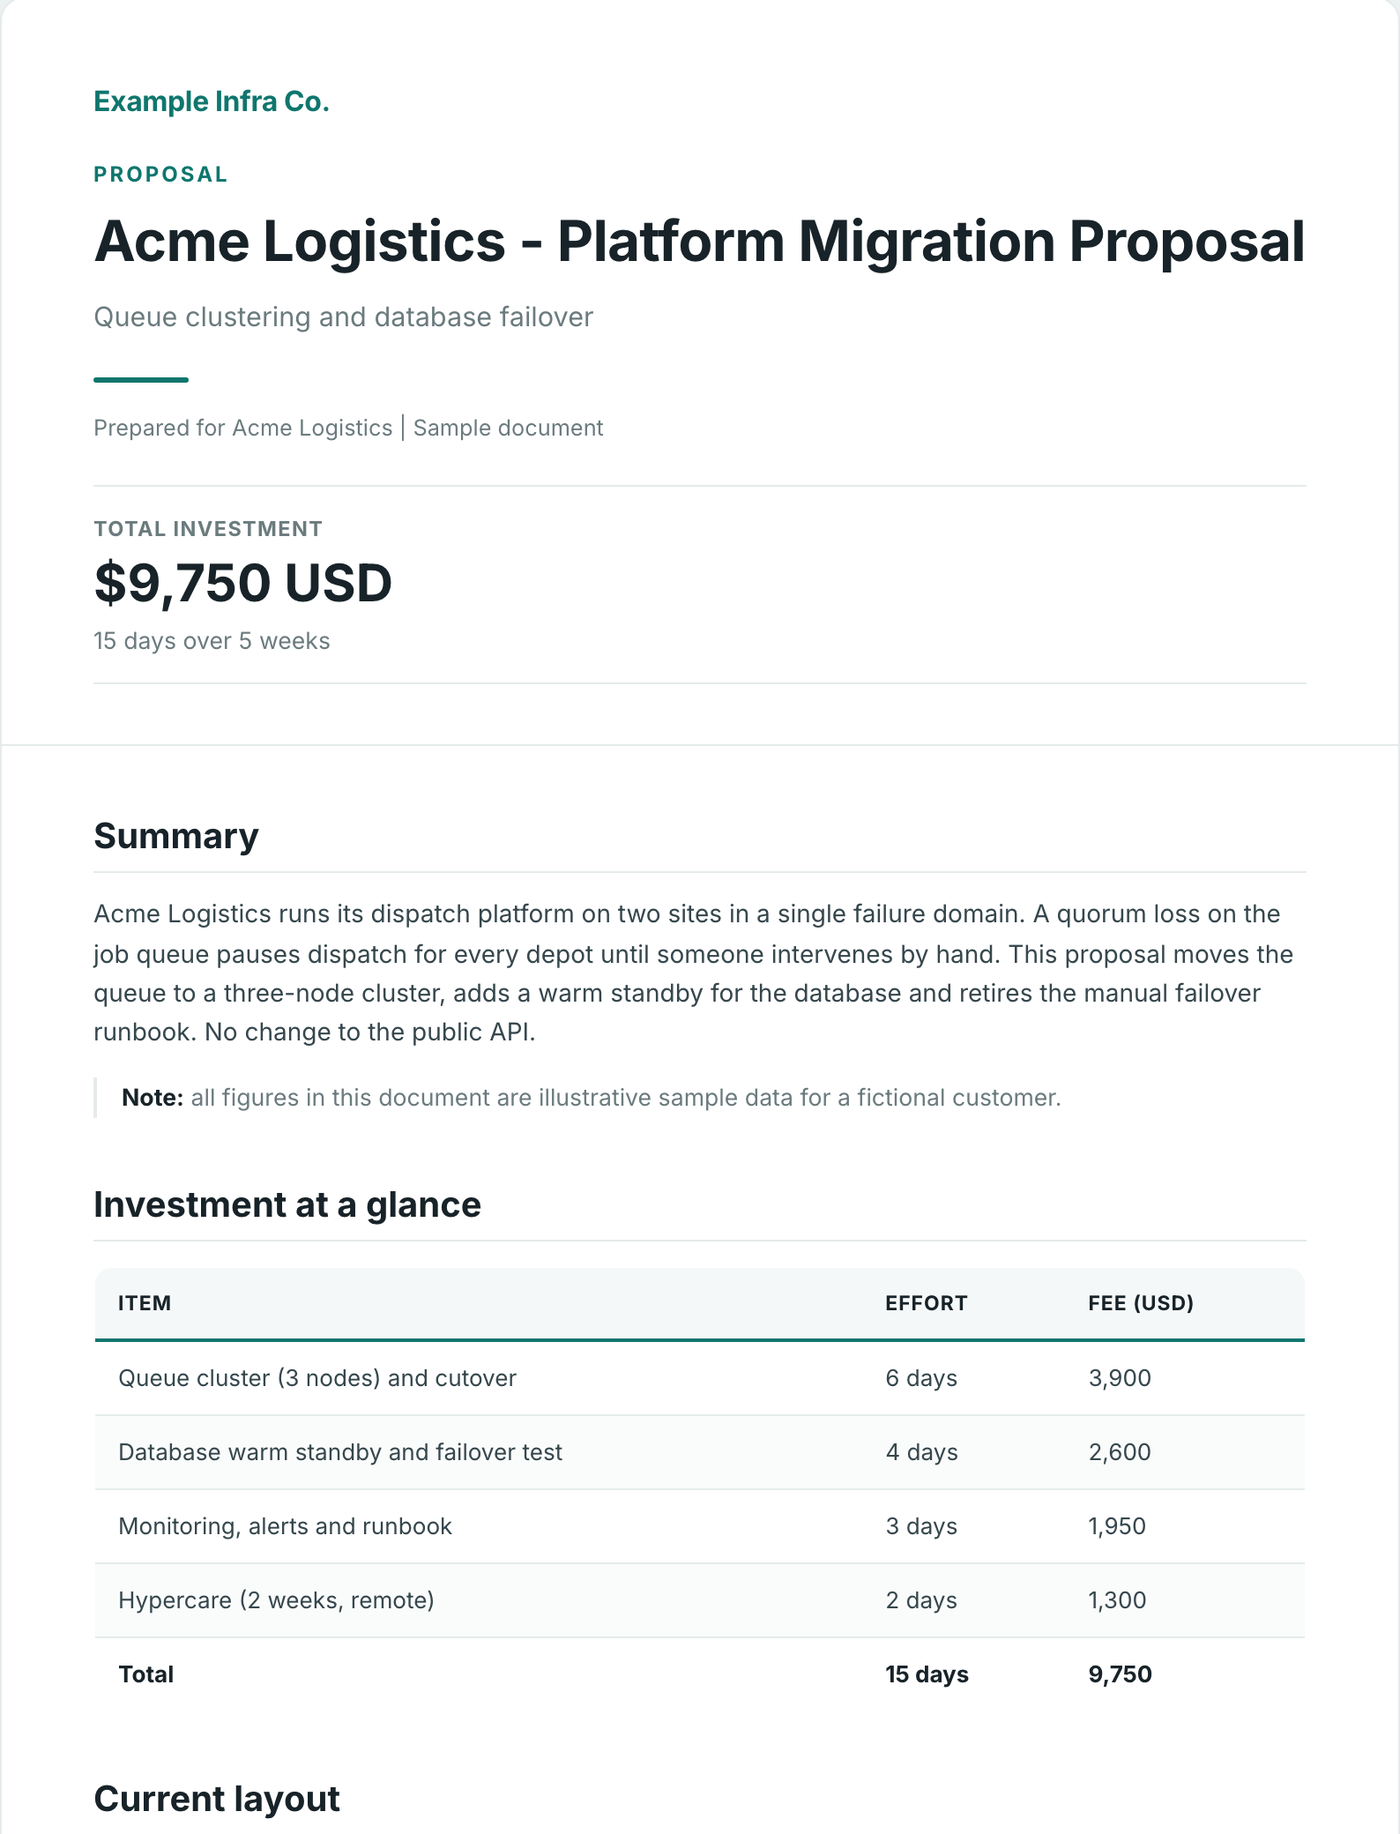
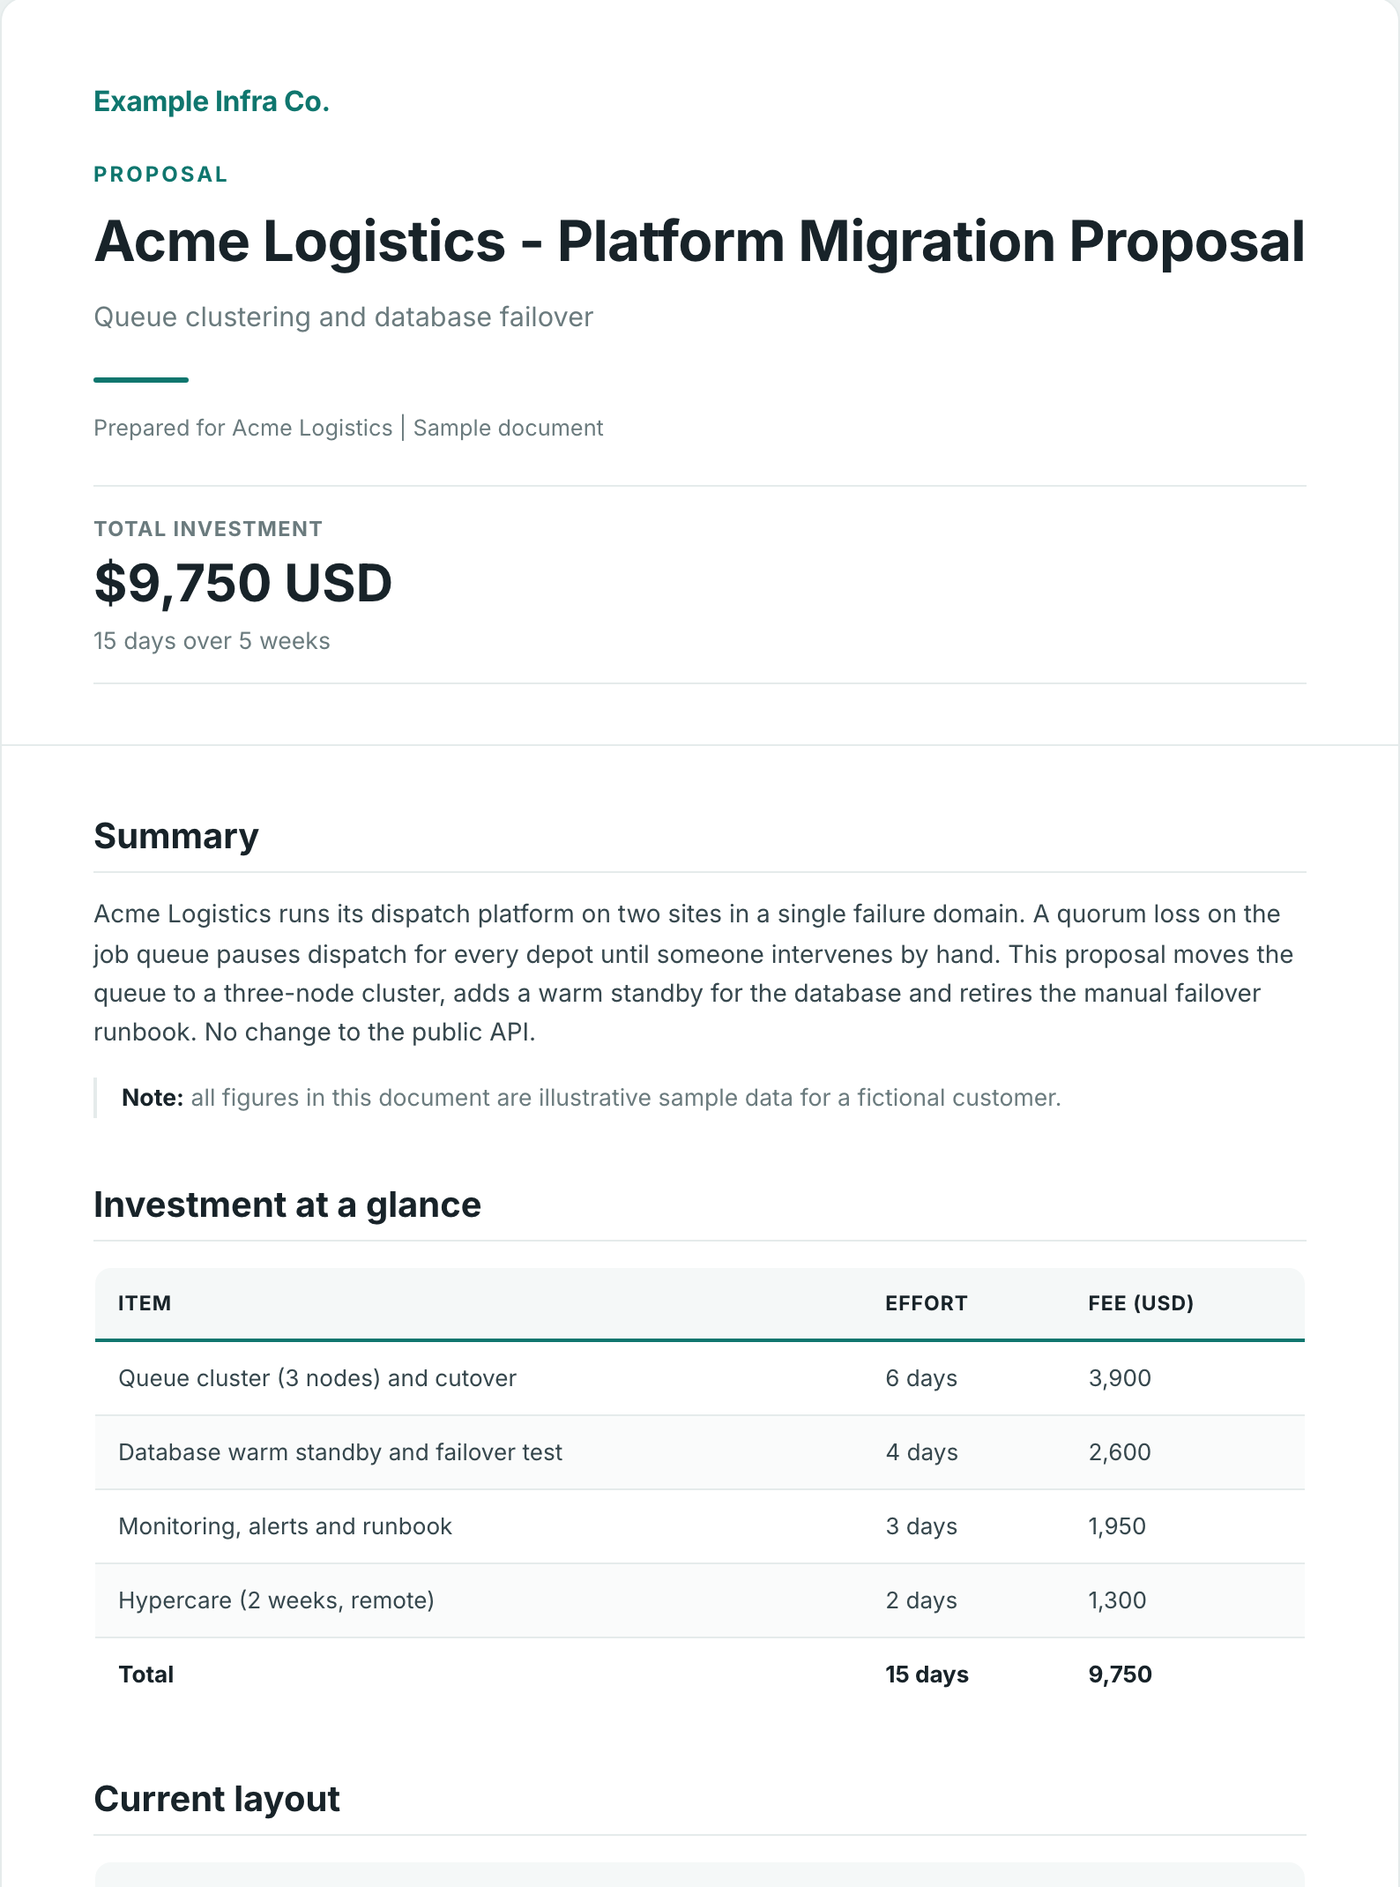
docs: make sample command reproduce the screenshot, add screenshots script
Claude-Session: https://claude.ai/code/session_013k5L2Sjxq2wSeEZmUjdq9U

diff --git a/README.md b/README.md
@@ -52,9 +52,15 @@ cd claude-skills
 Try `doc-builder` without Claude:
 
 ```bash
-python3 plugins/tech-docs/skills/doc-builder/scripts/build_doc.py examples/sample.md
-# writes examples/sample.html; add --pdf for a PDF
+python3 plugins/tech-docs/skills/doc-builder/scripts/build_doc.py examples/sample.md \
+  --eyebrow "Proposal" --subtitle "Queue clustering and database failover" \
+  --meta "Prepared for Acme Logistics | Sample document" --brand "Example Infra Co." \
+  --stat '$9,750 USD' --stat-label "Total investment" --stat-note "15 days over 5 weeks" \
+  --footer "Sample data - fictional customer"
+# writes examples/sample.html (the hero screenshot); add --pdf for a PDF
 ```
+
+`scripts/screenshots.sh` rebuilds both screenshots (needs Playwright chromium).
 
 `--pdf` uses headless Chrome. Set `CHROME` to a Chrome or Chromium binary, or put
 `google-chrome` / `chromium` on PATH. On macOS the default app location is tried last.
